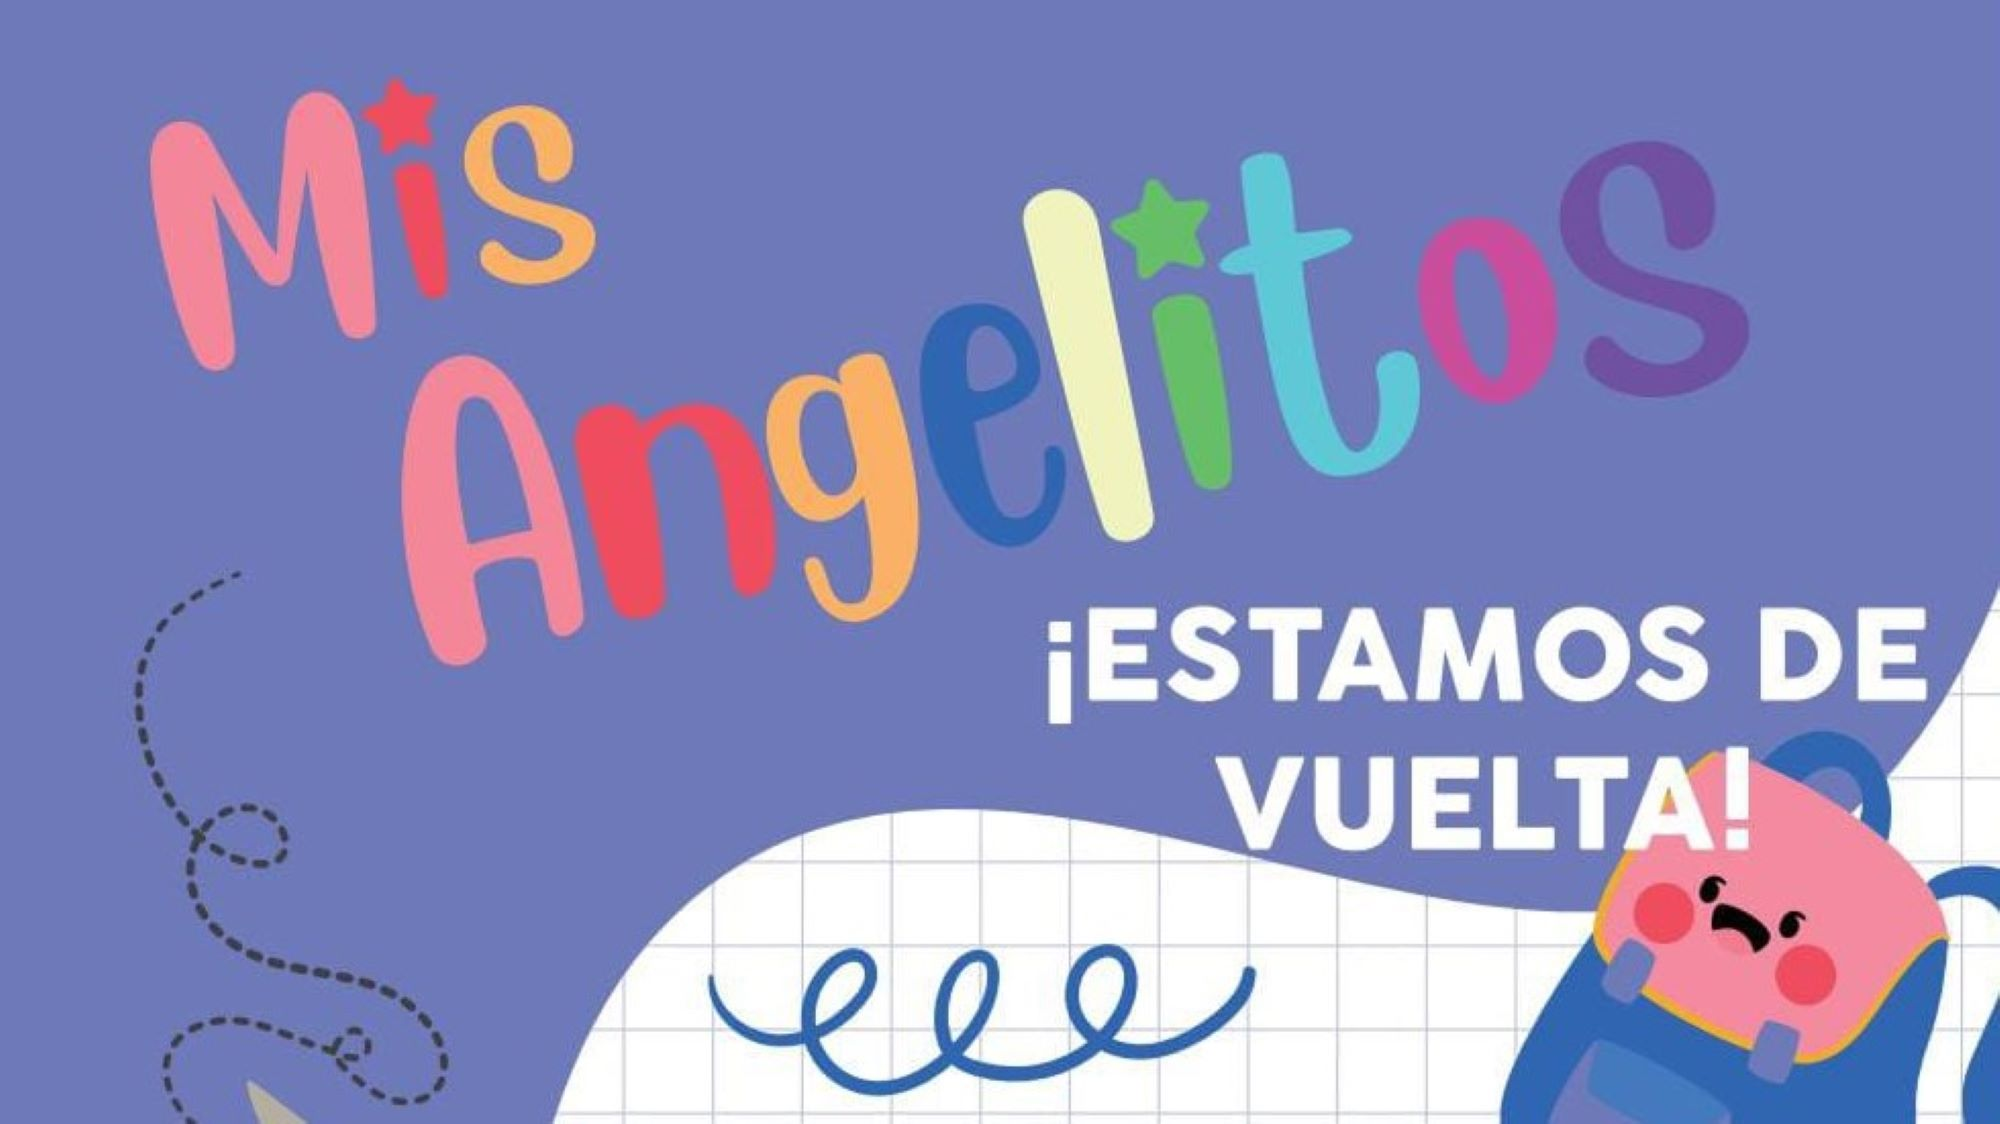
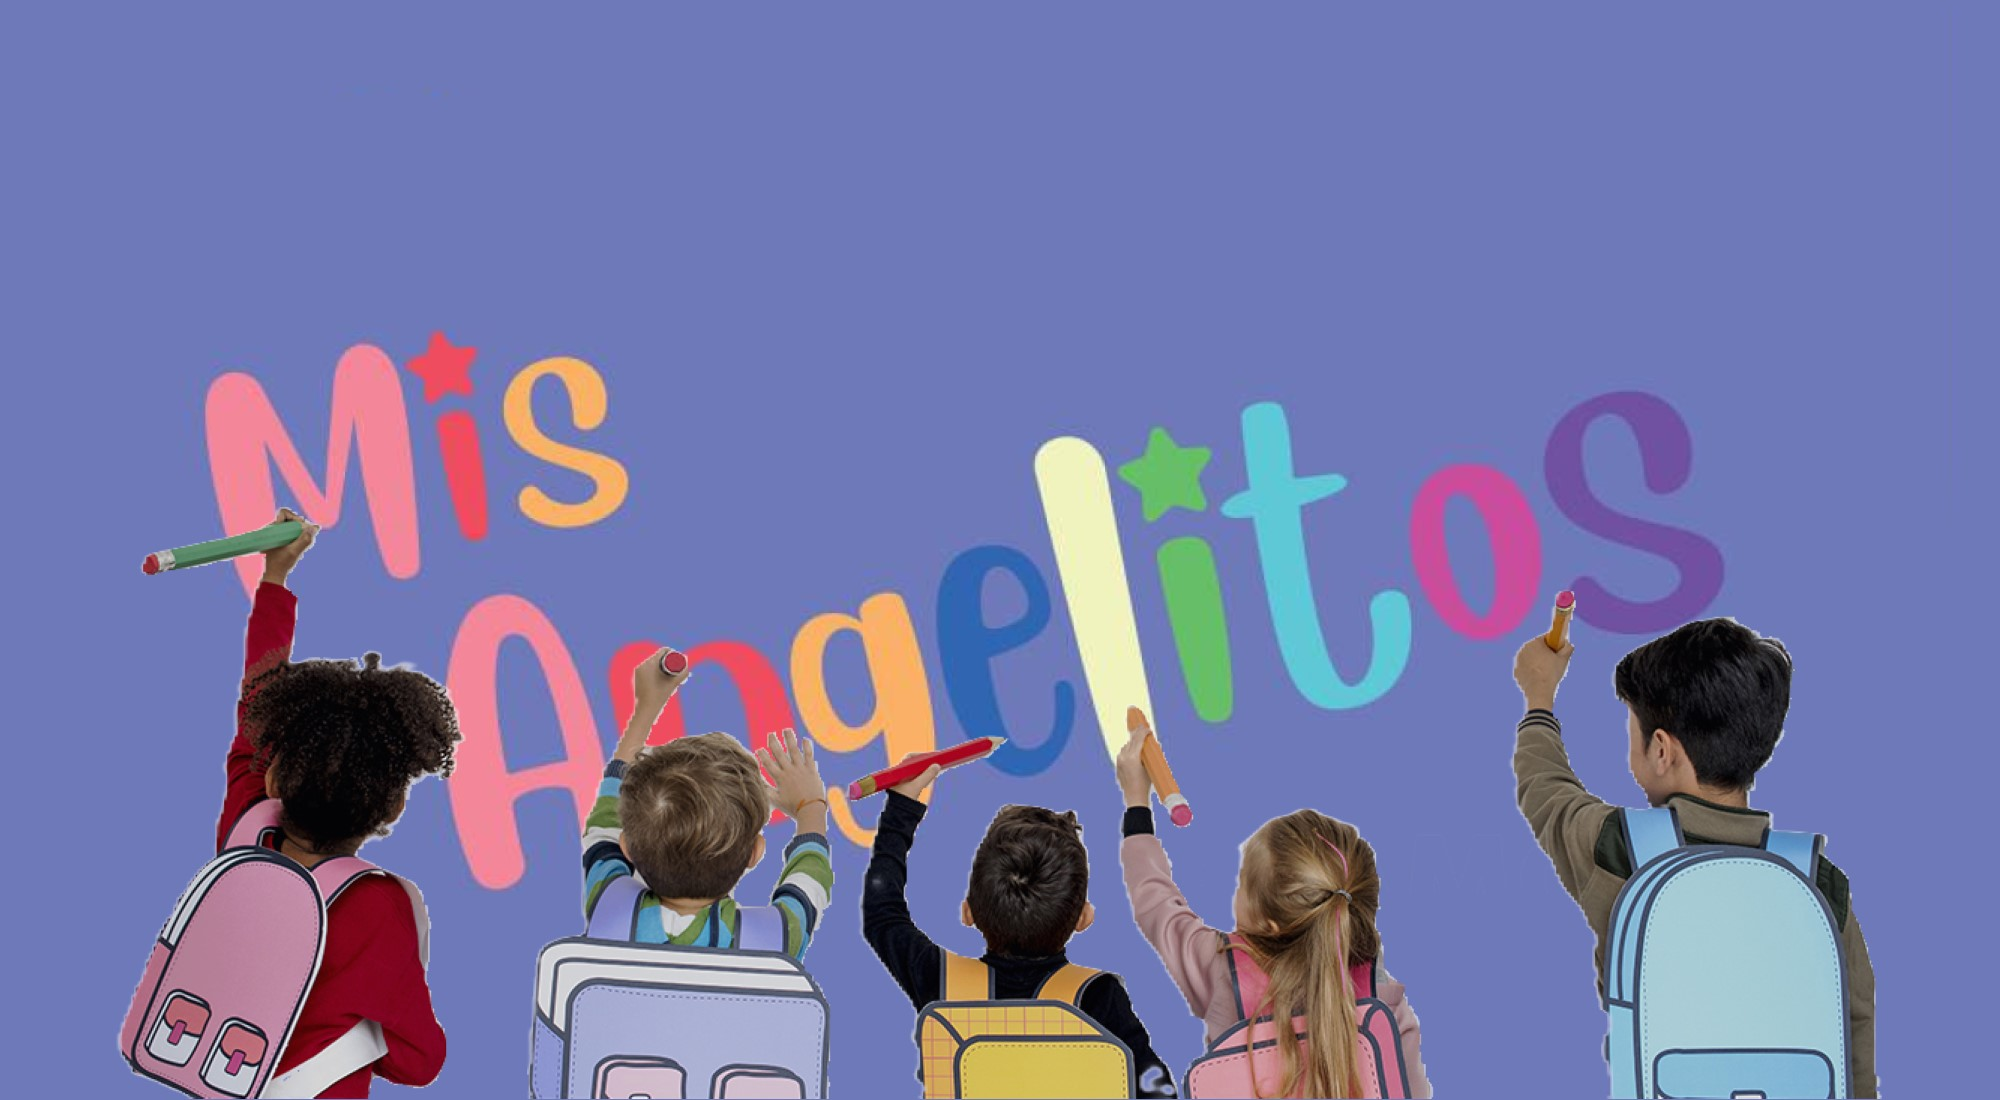
feat: Implementa cambios de imagen

diff --git a/src/pages/Presentation/sections/Download.js b/src/pages/Presentation/sections/Download.js
@@ -71,11 +71,9 @@ function Download() {
               mb={1}
             >
               Dirección: Calle 45A - #15A - 31{" "}
-              <i
-                className="fa fa-map-marker
-"
-                style={{ fontSize: "1.50rem" }}
-              />
+              <MKTypography variant="body2" color="white">
+                <i className="fa fa-map-marker" style={{ fontSize: "1.50rem" }} />
+              </MKTypography>
             </MKTypography>
             <MKTypography
               component={MuiLink}
@@ -86,7 +84,10 @@ function Download() {
               color="white"
               mb={1}
             >
-              Telefóno: 310-8947369 <i className="fa fa-whatsapp" style={{ fontSize: "1.50rem" }} />
+              Telefóno: 310-8947369
+              <MKTypography variant="body2" color="white">
+                <i className="fa fa-whatsapp" style={{ fontSize: "1.50rem" }} />
+              </MKTypography>
             </MKTypography>
             <MKTypography
               component={MuiLink}
@@ -98,7 +99,9 @@ function Download() {
               mb={1}
             >
               Correo: angelyeinel22@gmail.com{" "}
-              <i className="fa fa-envelope-o" style={{ fontSize: "1.50rem" }} />
+              <MKTypography variant="body2" color="white">
+                <i className="fa fa-envelope-o" style={{ fontSize: "1.50rem" }} />
+              </MKTypography>
             </MKTypography>
           </Grid>
         </Container>

diff --git a/src/pages/Presentation/index.js b/src/pages/Presentation/index.js
@@ -36,7 +36,7 @@ import routes from "routes";
 import footerRoutes from "footer.routes";
 
 // Images
-import bgImage from "assets/images/Presentacion2.png";
+import bgImage from "assets/images/Presentacion.jpg";
 import Download from "pages/Presentation/sections/Download";
 
 function Presentation() {
@@ -59,6 +59,7 @@ function Presentation() {
             <MKTypography
               variant="h2"
               color="primary"
+              textAlign="center"
               mt={-6}
               mb={1}
               sx={({ breakpoints, typography: { size } }) => ({

diff --git a/src/pages/Presentation/sections/Information.js b/src/pages/Presentation/sections/Information.js
@@ -59,8 +59,8 @@ function Information() {
                 description="Atención todos los días"
                 action={{
                   type: "internal",
-                  route: "/sections/page-sections/page-headers",
-                  label: "start with header",
+                  route: "/",
+                  label: "horarios",
                 }}
               />
             </RotatingCard>

diff --git a/src/footer.routes.js b/src/footer.routes.js
@@ -6,7 +6,7 @@ import InstagramIcon from "@mui/icons-material/Instagram";
 import MKTypography from "components/MKTypography";
 
 // Images
-import logoCT from "assets/images/logo-ct-dark.png";
+import logoCT from "assets/images/star-icon-200x190.png";
 
 const date = new Date().getFullYear();
 
